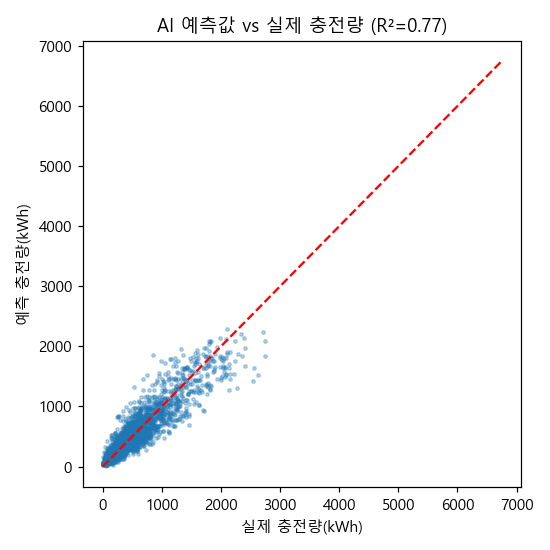
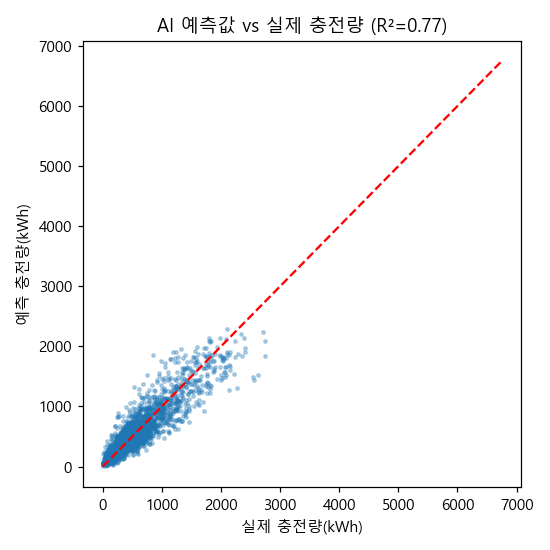
feat: 공휴일·주말 독립변수 추가 및 모델 재학습
- is_holiday(한국 공휴일), is_weekend(주말) 파생변수 추가
- 구 모델 R²: 0.766 -> 0.769 소폭 향상
- requirements.txt: holidays 패키지 추가

Changed region(s): [[0.2473, 0.6182, 0.4636, 0.8036], [0.1855, 0.7727, 0.2164, 0.8345], [0.2164, 0.7418, 0.2473, 0.7727]]

diff --git a/src/ml/make_report.py b/src/ml/make_report.py
@@ -63,8 +63,44 @@ st.cell(8,0).merge(st.cell(13,0))   # AI 머신러닝
 st.cell(1,1).merge(st.cell(3,1))    # 전처리
 st.cell(4,1).merge(st.cell(7,1))    # EDA 분석
 st.cell(10,1).merge(st.cell(11,1))  # 분석
-doc.add_heading('2.3 추진 방법',2)
-doc.add_paragraph('DATA IMPORTING → 전처리 → 모델링(XGBoost) → 예측 → 시각화')
+doc.add_heading('2.3 과제 추진 방법',2)
+
+def bpara(text):
+    p=doc.add_paragraph(); p.add_run(text).bold=True; return p
+def cbullet(text):
+    p=doc.add_paragraph(); p.paragraph_format.left_indent=Pt(12); p.add_run('○ '+text); return p
+def sbullet(text):
+    p=doc.add_paragraph(); p.paragraph_format.left_indent=Pt(24); p.add_run('■ '+text); return p
+
+bpara('1) 구축 대상 선정 기준')
+cbullet('데이터 접근성 및 활용성')
+sbullet('공공데이터포털을 통한 한국전력공사 서울시 전기차 충전 데이터 무료 수집 가능')
+sbullet('정부 및 공공기관에서 이미 구축된 충전 이용 데이터베이스 활용 가능')
+sbullet('충전량에 영향을 미치는 자치구·충전기 유형·시간 등 다양한 독립변수 포함으로 모델학습 유용성 확보')
+cbullet('예측모델 개발 효율성')
+sbullet('충전량·충전 구분·자치구·요일·월 등 변수 구조가 단순하여 모델 학습 및 평가 과정 간소화 가능')
+sbullet('개발된 모델을 타 지역 및 전국 단위 충전 인프라 예측에 확장 적용 가능')
+cbullet('환경문제 해결 기여도 및 경제성')
+sbullet('충전 수요 예측을 통한 전력 부하 분산 및 에너지 절감 기여 (ex. 전력 피크 저감, 재생에너지 연계 등)')
+sbullet('충전 인프라 투자 우선순위 결정을 통한 설치 비용 절감 효과')
+sbullet('충전 병목 해소로 전기차 보급 확대 → 온실가스 감소 등 사회적 비용감소 효과')
+
+bpara('2) AI 예측 분석모델 적용 대상')
+at=doc.add_table(rows=2,cols=4); at.style='Table Grid'
+for j,h in enumerate(['환경관리\n기능','수집 데이터','예측모델인자(독립변수)','AI예측 분석 대상']):
+    at.rows[0].cells[j].text=h
+dr=at.rows[1]
+dr.cells[0].text='전기차\n충전'
+dr.cells[1].text=('- 한국전력공사 서울시 전기차 충전소 충전량 데이터 (638,702건)\n'
+                   '- 충전소별 일별 충전량 집계 데이터\n'
+                   '- 자치구별 일별 충전량 집계 데이터')
+dr.cells[2].text=('- 위치변수: 자치구, 충전소명\n'
+                   '- 충전기변수: 충전 구분(급속/완속), 충전기 용량(kW)\n'
+                   '- 시간변수: 요일, 월')
+dr.cells[3].text=('- 일별 충전량(kWh) 예측\n'
+                   '- 수요 상위 자치구 도출\n'
+                   '- 충전소 핫스팟 TOP10\n'
+                   '- 인프라 투자 우선순위 결정')
 doc.add_heading('3. 연구개발 주요 결과물',1)
 doc.add_heading('① 데이터 수집',2)
 doc.add_paragraph('한국전력공사 서울 충전량, 638,702 세션, 9개 컬럼(충전량·충전구분·주소·시각 등). 출처: 공공데이터포털.')
@@ -77,7 +113,7 @@ doc.add_heading('③ 데이터 학습 및 모델 정의',2)
 doc.add_paragraph('예측 목표: 일별 충전량 · AI 모델: XGBoost · 검증: 학습/테스트 8:2 분할 + 5회 교차검증.')
 t=doc.add_table(rows=3,cols=5); t.style='Table Grid'
 hdr=['모델','기준 모델 정확도','AI 모델 정확도','교차검증 정확도','평균 오차(kWh)']
-data=[['구(거시) — RandomForest','0.761','0.766','0.772','150'],['충전소(미시) — GradientBoosting','0.485','0.556','0.346','37']]
+data=[['구(거시) — RandomForest','0.761','0.769','0.775','149'],['충전소(미시) — GradientBoosting','0.485','0.556','0.349','37']]
 for j,h in enumerate(hdr): t.rows[0].cells[j].text=h
 for i,r in enumerate(data):
     for j,v in enumerate(r): t.rows[i+1].cells[j].text=v

diff --git a/src/ml/model.py b/src/ml/model.py
@@ -1,6 +1,6 @@
 import matplotlib; matplotlib.use("Agg")
 import matplotlib.pyplot as plt
-import pandas as pd, numpy as np, joblib
+import pandas as pd, numpy as np, joblib, holidays
 from pathlib import Path
 from sklearn.model_selection import train_test_split, cross_val_score, KFold
 from sklearn.metrics import r2_score, mean_squared_error, mean_absolute_error
@@ -97,18 +97,27 @@ def run(df, cats, nums, keys, tag, title, cv_sample=5000):
     return best_name, best_r2, rmse(yte, best_pred), mae(yte, best_pred), br2
 
 # ── 학습 실행 ──────────────────────────────────────────────
-gu = pd.read_csv(DATA / "gu_day.csv",      encoding="utf-8-sig")
-st = pd.read_csv(DATA / "station_day.csv", encoding="utf-8-sig")
+kr_hol = holidays.KR()
+
+def add_features(df):
+    df = df.copy()
+    dates = pd.to_datetime(df["date"]).dt.date
+    df["is_holiday"] = dates.map(lambda d: 1 if d in kr_hol else 0)
+    df["is_weekend"]  = (df["weekday"] >= 5).astype(int)
+    return df
+
+gu = add_features(pd.read_csv(DATA / "gu_day.csv",      encoding="utf-8-sig"))
+st = add_features(pd.read_csv(DATA / "station_day.csv", encoding="utf-8-sig"))
 
 print("=== 구 단위 모델 ===")
 gu_best, gu_r2, gu_rmse, gu_mae, gu_br2 = run(
-    gu, ["gu", "충전구분"], ["weekday", "month"],
+    gu, ["gu", "충전구분"], ["weekday", "month", "is_holiday", "is_weekend"],
     ["gu", "충전구분", "weekday"], "gu", "구 모델"
 )
 
 print("\n=== 충전소 단위 모델 ===")
 st_best, st_r2, st_rmse, st_mae, st_br2 = run(
-    st, ["충전소명", "gu", "충전구분"], ["충전기용량", "weekday", "month"],
+    st, ["충전소명", "gu", "충전구분"], ["충전기용량", "weekday", "month", "is_holiday", "is_weekend"],
     ["충전소명", "weekday"], "station", "충전소 모델", cv_sample=3000
 )
 